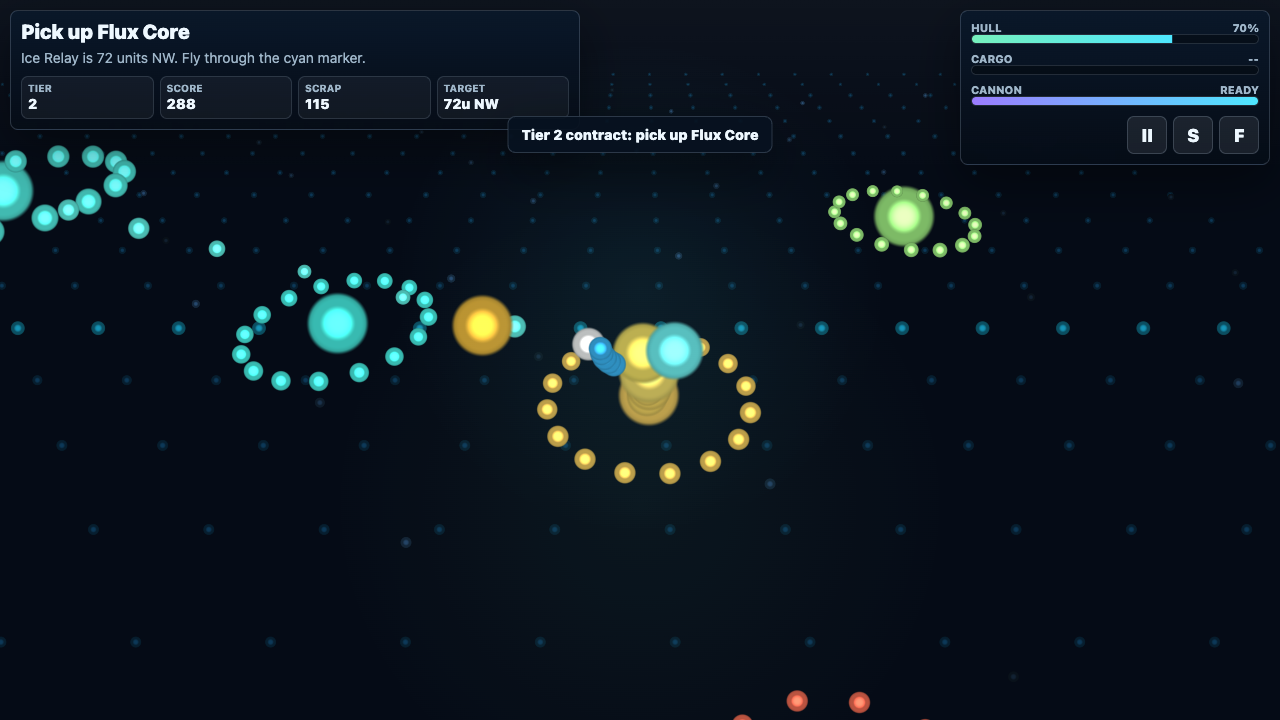
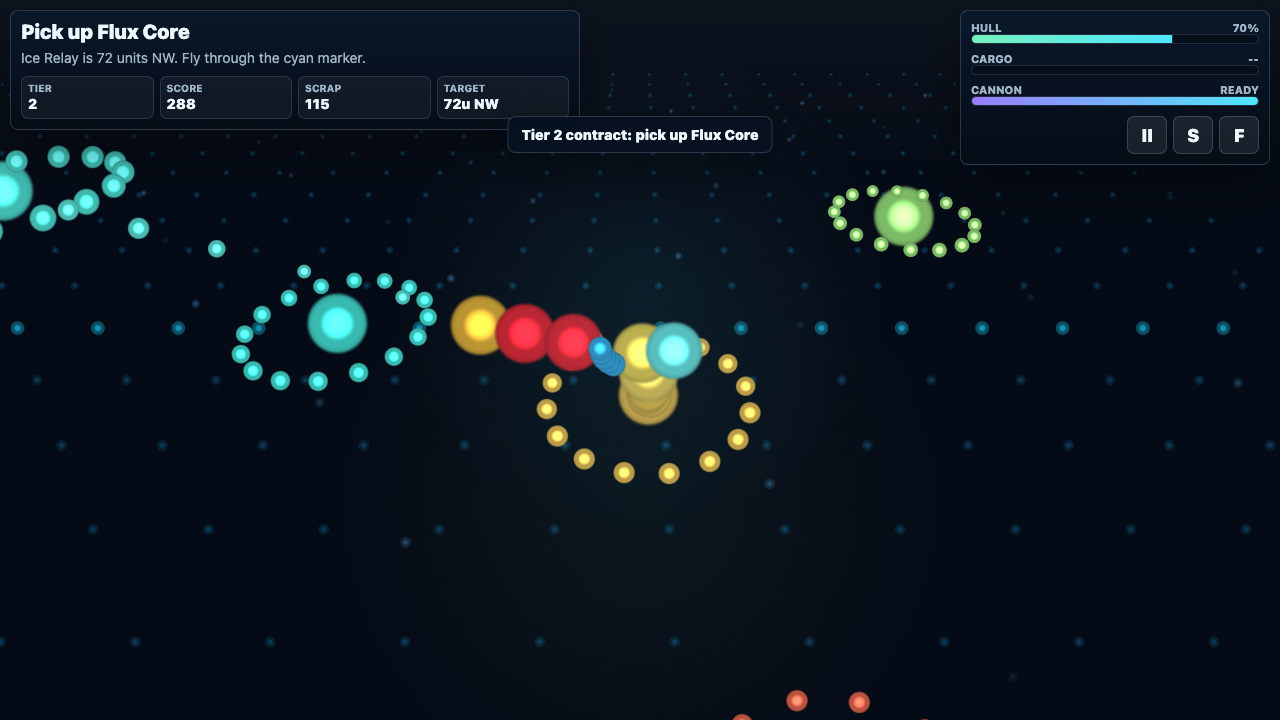
docs: finalize Pages build receipt

diff --git a/progress.md b/progress.md
@@ -305,4 +305,6 @@ Release owner: persistent thread `019f65a3-ea58-7311-9a84-c672ca1996db`, GPT-5.6
 - Live audit command: `node /tmp/live_release_audit.mjs`; durable proof is `output/release/live-audit.json` and screenshot `output/release/live-full-loop.png`.
 - Live URL checks: `https://ers123.github.io/space_courier/`, `/manifest.json`, `/sw.js`, `/star_icon_192.png`, `/star_icon_512.png`, and `/docs/media/starforge-courier-gameplay.mp4` each returned HTTP 200 with expected HTML/JSON/JavaScript/PNG/MP4 content types.
 - Live gameplay proof: `mode:"playing"`, `tier:2`, `deliveries:1`, `kills:1`; Quick Play returned `mode:"playing"` with menu hidden; controlled offline reload remained `mode:"playing"` and service-worker controlled; `consoleErrors:[]`.
-- Final evidence-only commit and second Pages poll are required after adding these live proof files; no gameplay/source behavior changes are expected in that final receipt.
+- Final evidence-only receipt commit `0c50e505cd98fb0cd3c7dae462044a2e99952af1` was pushed to `main`; no gameplay/source behavior changes were introduced after `15f2e7a`.
+- Pages rebuild was explicitly triggered with `gh api --method POST repos/ers123/space_courier/pages/builds`; the API then reported revision `0c50e505cd98fb0cd3c7dae462044a2e99952af1`, status `built`, created `2026-07-15T12:09:25Z`, updated `2026-07-15T12:10:08Z` (legacy build `id:null`).
+- Final live rerun against the `0c50e50` Pages build returned HTTP 200 for every required URL, tier-2 full-loop gameplay, Quick Play, controlled offline reload, and `consoleErrors:[]`; the refreshed screenshot is the only remaining local evidence delta and will be included in the final clean receipt.